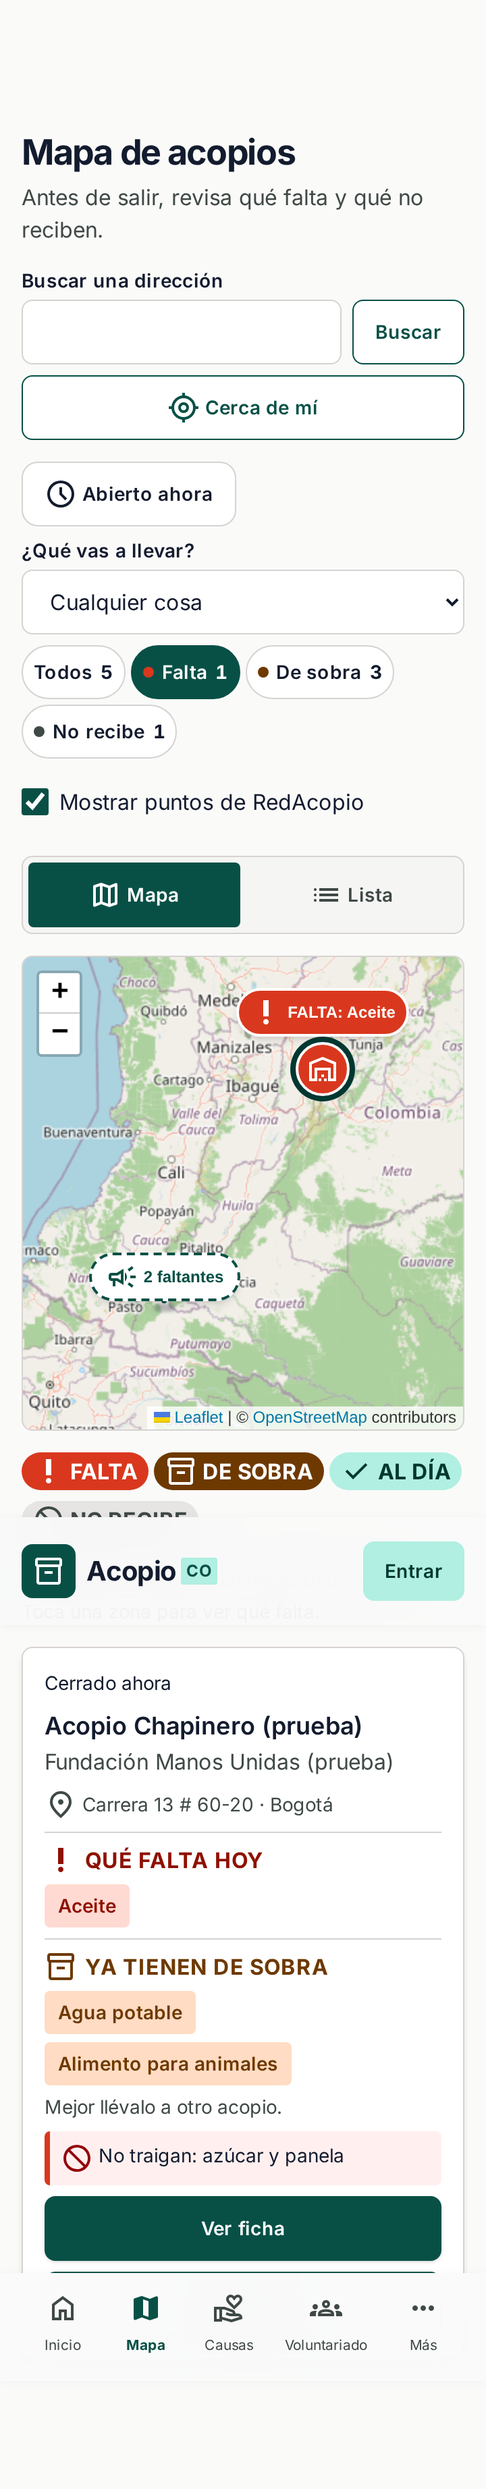
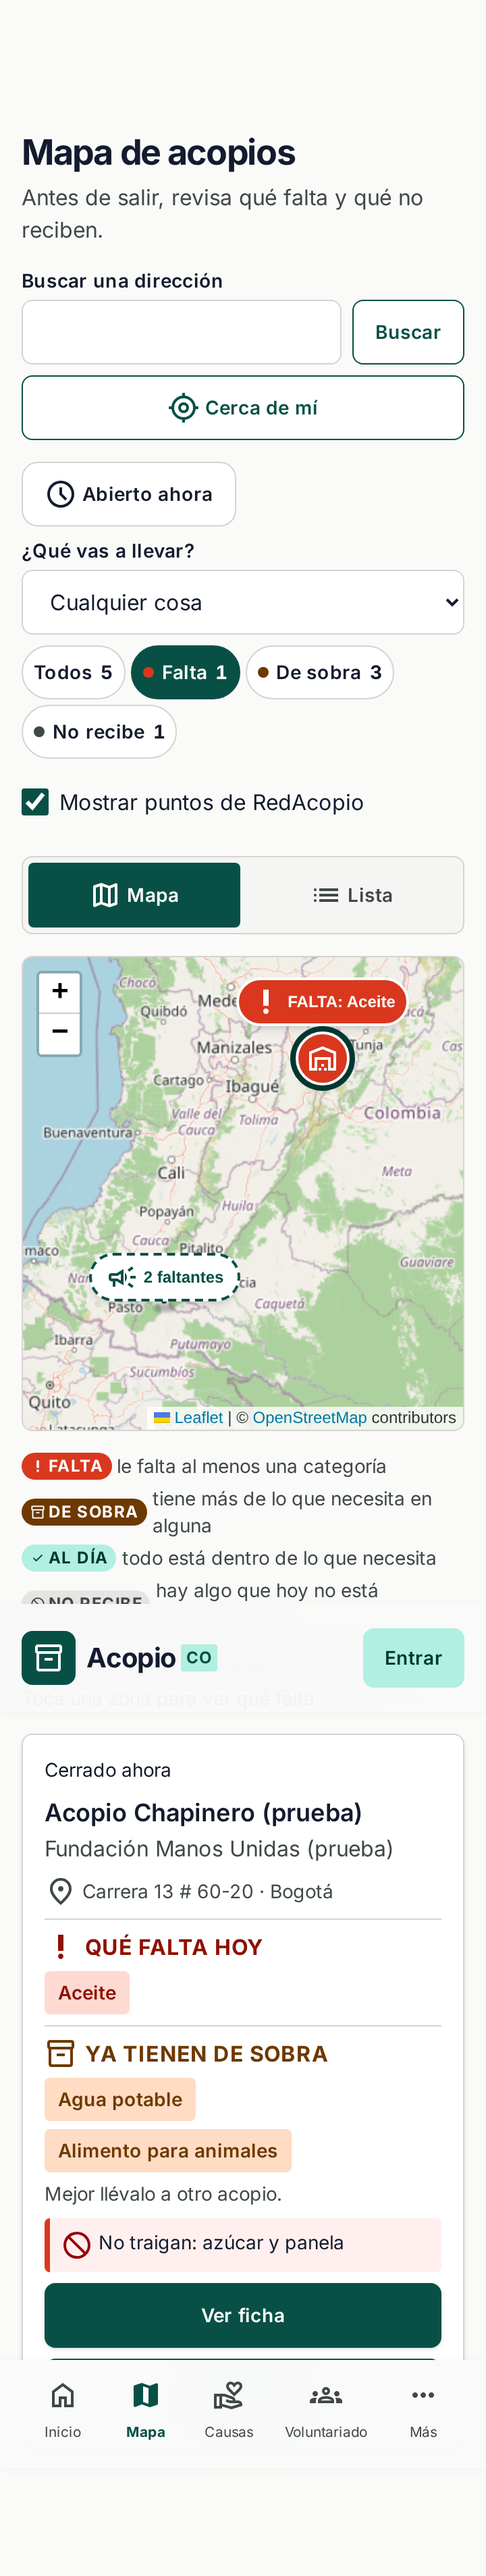
Mapa: leyenda mini por estado, etiqueta corta y ancla en la punta del círculo
La leyenda bajo el mapa lleva una fila por estado con la píldora mini y su frase, y
«Acopio sin etiqueta: no publica su inventario». La etiqueta del punto se acorta a 24
letras antes del +N o del estado, el ancho del ícono sale de la etiqueta (o del círculo
si no tiene) y altoPunto suma el gap y el alto fijo de la etiqueta (h-9), así la punta
del círculo cae sobre la coordenada.

Claude-Session: https://claude.ai/code/session_01YFcedtGcTXRBBGCybdUmT9

diff --git a/apps/web/src/portal/mapa/marcador.ts b/apps/web/src/portal/mapa/marcador.ts
@@ -42,16 +42,56 @@ export interface OpcionesPunto {
   apagado?: boolean;
 }
 
+/** Largo máximo de la etiqueta del punto; el title del marcador lleva el texto completo. */
+export const LARGO_ETIQUETA = 24;
+
+// Lo que va al final y no se corta: el estado de «ARROZ DE SOBRA» y el «+2» de las demás
+const COLA = /(?: (?:DE SOBRA|AL DÍA))?(?: \+\d+)?$/;
+
+/** Acorta la etiqueta a `max` letras: corta la categoría con «…» y deja el final (el estado
+ *  que va después de la categoría y el «+N»). */
+export function etiquetaCorta(texto: string, max: number) {
+  if (texto.length <= max) return texto;
+  const cola = COLA.exec(texto)?.[0] ?? '';
+  const cabe = Math.max(max - cola.length - 1, 1);
+  return `${texto
+    .slice(0, texto.length - cola.length)
+    .slice(0, cabe)
+    .trimEnd()}…${cola}`;
+}
+
+// Los números salen de las clases de htmlPunto. El círculo es size-8 (32 px) o size-10 (40 px)
+// si está elegido; la etiqueta es h-9 (36 px) y va separada del círculo por gap-1 (4 px).
+// El anillo (ring-4) es una sombra: no cambia el alto.
+const CIRCULO = { normal: 32, elegido: 40 };
+const ALTO_ETIQUETA = 36;
+const GAP = 4;
+
 /** Alto del punto en px, para que el ancla del marcador sea la base del círculo. */
 export const altoPunto = (elegido: boolean, conEtiqueta: boolean) =>
-  (elegido ? 40 : 32) + (conEtiqueta ? 32 : 0);
+  (elegido ? CIRCULO.elegido : CIRCULO.normal) + (conEtiqueta ? GAP + ALTO_ETIQUETA : 0);
 
-/** Un círculo de 32 px (40 px con anillo si está elegido) con una etiqueta encima. Va con
+// La etiqueta mide su borde (2 × 2), el px-2 (2 × 8), el ícono (24: la hoja de Material Symbols
+// fija 24 px sobre el text-[16px]), el gap-1 y unos 8 px por letra en la letra de 12 px de Leaflet
+const FIJO_ETIQUETA = 4 + 16 + 24 + 4;
+const POR_LETRA = 8;
+
+/** Ancho del ícono del marcador: el círculo con su anillo (40 px, 48 elegido) sin etiqueta, y lo
+ *  que mida la etiqueta con ella. Sin etiqueta no queda una franja invisible que tape a otros. */
+export function anchoPunto(elegido: boolean, texto: string | null) {
+  const circulo = elegido ? 48 : 40;
+  if (!texto) return circulo;
+  const letras = etiquetaCorta(texto, LARGO_ETIQUETA).length;
+  return Math.max(circulo, FIJO_ETIQUETA + letras * POR_LETRA);
+}
+
+/** Un círculo de 32 px (40 px con anillo si está elegido) con una etiqueta encima, de alto fijo
+ *  para que altoPunto coincida. Va con
  *  aria-hidden: el lector de pantalla anuncia el title del marcador. */
 export function htmlPunto(o: OpcionesPunto) {
   const etiqueta =
     o.etiqueta && !o.apagado
-      ? `<div class="flex items-center gap-1 whitespace-nowrap rounded-[999px] border-2 border-surface-container-lowest px-2 py-1 text-label-sm font-bold shadow-md ${o.etiqueta.clases}">${icono(o.etiqueta.icono)}${escapar(o.etiqueta.texto)}</div>`
+      ? `<div class="flex h-9 items-center gap-1 whitespace-nowrap rounded-[999px] border-2 border-surface-container-lowest px-2 text-label-sm font-bold shadow-md ${o.etiqueta.clases}">${icono(o.etiqueta.icono)}${escapar(etiquetaCorta(o.etiqueta.texto, LARGO_ETIQUETA))}</div>`
       : '';
   const tamano = o.elegido ? 'size-10' : 'size-8';
   return `<div aria-hidden="true" class="flex flex-col items-center gap-1${o.apagado ? ' opacity-45' : ''}">${etiqueta}<div class="flex ${tamano} items-center justify-center rounded-[999px] border-2 border-surface-container-lowest shadow-md ${o.circulo} ${anillo(o.elegido)}">${icono(o.icono)}</div></div>`;

diff --git a/apps/web/src/portal/mapa/marcador.test.ts b/apps/web/src/portal/mapa/marcador.test.ts
@@ -2,6 +2,9 @@ import { screen } from '@testing-library/react';
 
 import { acopioDePrueba, referenciadoDePrueba } from '../../pruebas/datos-red';
 import {
+  altoPunto,
+  anchoPunto,
+  etiquetaCorta,
   etiquetaMarcador,
   htmlGrupo,
   htmlMarcador,
@@ -122,4 +125,62 @@ describe('el punto del acopio activo con la etiqueta de su estado', () => {
       '&lt;b&gt;',
     );
   });
+});
+
+describe('etiquetaCorta', () => {
+  it('deja igual lo que cabe', () => {
+    expect(etiquetaCorta('FALTA: Arroz +2', 24)).toBe('FALTA: Arroz +2');
+    expect(etiquetaCorta('X'.repeat(24), 24)).toBe('X'.repeat(24));
+  });
+  it('acorta la categoría con «…» antes del +N', () => {
+    expect(etiquetaCorta('FALTA: Alimento para animales +2', 24)).toBe('FALTA: Alimento para… +2');
+    expect(etiquetaCorta('FALTA: Alimento para animales +2', 24)).toHaveLength(24);
+  });
+  it('sin +N acorta el final', () => {
+    expect(etiquetaCorta('NO RECIBE: Alimento para animales', 24)).toBe('NO RECIBE: Alimento par…');
+  });
+  it('con la categoría delante conserva el estado del final', () => {
+    expect(etiquetaCorta('ALIMENTO PARA ANIMALES DE SOBRA', 24)).toBe('ALIMENTO PARA… DE SOBRA');
+    expect(etiquetaCorta('ALIMENTO PARA ANIMALES AL DÍA', 24)).toBe('ALIMENTO PARA AN… AL DÍA');
+  });
+  it('no deja un espacio antes de «…»', () => {
+    expect(etiquetaCorta('FALTA: Agua potable embotellada', 21)).toBe('FALTA: Agua potable…');
+  });
+});
+
+it('el marcador dibuja la etiqueta corta; el title lleva la completa', () => {
+  const html = htmlMarcador(acopioDePrueba(), false, {
+    estado: 'falta',
+    texto: 'FALTA: Alimento para animales +2',
+  });
+  expect(html).toContain('FALTA: Alimento para… +2');
+  expect(html).not.toContain('animales');
+});
+
+// El alto sale de las clases de htmlPunto: size-8 o size-10, gap-1 y h-9 en la etiqueta
+it('altoPunto mide lo dibujado, con y sin etiqueta, elegido o no', () => {
+  expect(altoPunto(false, false)).toBe(32);
+  expect(altoPunto(true, false)).toBe(40);
+  expect(altoPunto(false, true)).toBe(32 + 4 + 36);
+  expect(altoPunto(true, true)).toBe(40 + 4 + 36);
+  const html = htmlPunto({
+    circulo: 'y',
+    icono: 'check',
+    etiqueta: { clases: 'x', icono: 'check', texto: 'AL DÍA' },
+    elegido: false,
+  });
+  expect(html).toContain('gap-1');
+  expect(html).toContain('h-9');
+  expect(html).toContain('size-8');
+});
+
+it('anchoPunto: el círculo sin etiqueta y lo que mida la etiqueta con ella', () => {
+  expect(anchoPunto(false, null)).toBe(40);
+  expect(anchoPunto(true, null)).toBe(48);
+  expect(anchoPunto(false, 'AL DÍA')).toBeGreaterThan(48);
+  // la etiqueta crece con el texto hasta 24 letras y no más
+  expect(anchoPunto(false, 'FALTA: Aceite')).toBeGreaterThan(anchoPunto(false, 'AL DÍA'));
+  expect(anchoPunto(false, 'FALTA: Alimento para animales +2')).toBe(
+    anchoPunto(false, 'X'.repeat(24)),
+  );
 });

diff --git a/apps/web/src/portal/mapa/Mapa.tsx b/apps/web/src/portal/mapa/Mapa.tsx
@@ -43,11 +43,11 @@ type Chip = 'todos' | Exclude<EstadoMapa, 'aldia'>;
 const CHIPS: readonly Chip[] = ['falta', 'sobra', 'norecibe'];
 const leerChip = (v: string | null): Chip => (CHIPS.includes(v as Chip) ? (v as Chip) : 'todos');
 
-const LEYENDA: EtiquetaMapa[] = [
-  { estado: 'falta', texto: 'FALTA' },
-  { estado: 'sobra', texto: 'DE SOBRA' },
-  { estado: 'aldia', texto: 'AL DÍA' },
-  { estado: 'norecibe', texto: 'NO RECIBE' },
+const LEYENDA: (EtiquetaMapa & { frase: string })[] = [
+  { estado: 'falta', texto: 'FALTA', frase: 'le falta al menos una categoría' },
+  { estado: 'sobra', texto: 'DE SOBRA', frase: 'tiene más de lo que necesita en alguna' },
+  { estado: 'aldia', texto: 'AL DÍA', frase: 'todo está dentro de lo que necesita' },
+  { estado: 'norecibe', texto: 'NO RECIBE', frase: 'hay algo que hoy no está recibiendo' },
 ];
 
 /** P5 Mapa de acopios (RF-RED-002). Los filtros viven en la URL, así «Volver al mapa»
@@ -294,10 +294,13 @@ export function Mapa() {
             />
           </div>
           {necesidades && (
-            <ul aria-label="Estados del inventario" className="flex flex-wrap gap-space-xs">
+            <ul aria-label="Estados del inventario" className="flex flex-col gap-space-xs">
               {LEYENDA.map((e) => (
-                <li key={e.estado}>
-                  <PildoraEstado etiqueta={e} />
+                <li
+                  key={e.estado}
+                  className="flex items-center gap-space-xs text-body-sm text-on-surface-variant"
+                >
+                  <PildoraEstado etiqueta={e} mini /> {e.frase}
                 </li>
               ))}
             </ul>
@@ -307,7 +310,7 @@ export function Mapa() {
               <p className="flex flex-wrap gap-x-space-md gap-y-space-xs text-body-sm text-on-surface-variant">
                 <span className="inline-flex items-center gap-space-xs">
                   <span className="size-4 rounded-full border-2 border-surface-container-lowest bg-primary-container shadow-sm" />
-                  {refsEnMapa > 0 ? 'Acopio: inventario al día' : 'Acopio'}
+                  {refsEnMapa > 0 ? 'Acopio sin etiqueta: no publica su inventario' : 'Acopio'}
                 </span>
                 {refsEnMapa > 0 && fuente && (
                   <span className="inline-flex items-center gap-space-xs">

diff --git a/apps/web/src/portal/mapa/Mapa.test.tsx b/apps/web/src/portal/mapa/Mapa.test.tsx
@@ -275,6 +275,33 @@ it('la vista de mapa carga el mapa y deja pasar a la lista', async () => {
   expect(await screen.findByRole('link', { name: /Acopio Chapinero/ })).toBeInTheDocument();
 });
 
+it('la leyenda del mapa explica cada estado en su fila, con la píldora mini', async () => {
+  responderSegun(RESPUESTAS);
+  pantalla('/mapa');
+  await screen.findByText('mapa de acopios');
+  const leyenda = await screen.findByRole('list', { name: 'Estados del inventario' });
+  const filas = within(leyenda).getAllByRole('listitem');
+  expect(filas.map((f) => f.textContent)).toEqual([
+    'priority_highFALTA le falta al menos una categoría',
+    'inventory_2DE SOBRA tiene más de lo que necesita en alguna',
+    'checkAL DÍA todo está dentro de lo que necesita',
+    'blockNO RECIBE hay algo que hoy no está recibiendo',
+  ]);
+  const pildora = within(filas[0]!).getByText('FALTA');
+  expect(pildora).toHaveClass('text-label-caps', 'px-1.5', 'bg-secondary-container');
+});
+
+it('sin necesidades la leyenda no muestra los estados', async () => {
+  const { 'GET /api/publico/necesidades': _, ...sinNecesidades } = RESPUESTAS;
+  responderSegun(sinNecesidades);
+  pantalla('/mapa');
+  await screen.findByText('mapa de acopios');
+  await waitFor(() =>
+    expect(peticiones().some((u) => u.includes('/api/publico/necesidades'))).toBe(true),
+  );
+  expect(screen.queryByRole('list', { name: 'Estados del inventario' })).not.toBeInTheDocument();
+});
+
 it('no tiene violaciones graves de accesibilidad', async () => {
   responderSegun(RESPUESTAS);
   const { container } = pantalla();
@@ -392,7 +419,7 @@ describe('puntos de RedAcopio (pieza E)', () => {
     pantalla('/mapa');
     expect(await screen.findByRole('button', { name: 'acopio r1' })).toBeInTheDocument();
     expect(screen.queryByRole('button', { name: 'acopio r2' })).not.toBeInTheDocument();
-    expect(screen.getByText('Acopio: inventario al día')).toBeInTheDocument();
+    expect(screen.getByText('Acopio sin etiqueta: no publica su inventario')).toBeInTheDocument();
     expect(screen.getByText('RedAcopio Bogotá: datos de su fuente')).toBeInTheDocument();
   });
 

diff --git a/apps/web/src/portal/mapa/TarjetaAcopio.tsx b/apps/web/src/portal/mapa/TarjetaAcopio.tsx
@@ -15,14 +15,23 @@ export function aperturaPublica(a: Pick<AcopioPublico, 'estado' | 'abiertoAhora'
 
 export const km = (d: number) => `${d.toLocaleString('es-CO', { maximumFractionDigits: 1 })} km`;
 
-/** La etiqueta del mapa como píldora, en el color y con el ícono de su estado. */
-export function PildoraEstado({ etiqueta }: { etiqueta: EtiquetaMapa }) {
+/** La etiqueta del mapa como píldora, en el color y con el ícono de su estado. La `mini` es la
+ *  de la leyenda: unos 20 px de alto, con el ícono de 12 px. */
+export function PildoraEstado({
+  etiqueta,
+  mini = false,
+}: {
+  etiqueta: EtiquetaMapa;
+  mini?: boolean;
+}) {
   const e = ESTILO_ESTADO[etiqueta.estado];
+  // La hoja de Material Symbols fija 24 px y le gana a text-[12px]: por eso va con «!»
+  const tamano = mini
+    ? 'shrink-0 gap-0.5 px-1.5 py-0.5 text-label-caps'
+    : 'gap-1 px-2 py-0.5 text-label-sm font-bold';
   return (
-    <span
-      className={`inline-flex w-fit items-center gap-1 rounded-[999px] px-2 py-0.5 text-label-sm font-bold ${e.clases}`}
-    >
-      <Icono nombre={e.icono} className="text-[14px]" />
+    <span className={`inline-flex w-fit items-center rounded-[999px] ${tamano} ${e.clases}`}>
+      <Icono nombre={e.icono} className={mini ? 'text-[12px]!' : 'text-[14px]'} />
       {etiqueta.texto}
     </span>
   );

diff --git a/apps/web/src/portal/mapa/MapaAcopios.tsx b/apps/web/src/portal/mapa/MapaAcopios.tsx
@@ -10,6 +10,7 @@ import type { EtiquetaMapa } from './necesidad';
 import { claveEncuadre, leerClave } from './encuadre';
 import {
   altoPunto,
+  anchoPunto,
   etiquetaMarcador,
   htmlGrupo,
   htmlMarcador,
@@ -18,7 +19,8 @@ import {
   type TipoGrupo,
 } from './marcador';
 
-// La píldora mide hasta unos 140 px y el punto con etiqueta unos 200; el ancla es la base, sobre el punto
+// La píldora mide hasta unos 140 px; el punto, lo que mida su etiqueta o su círculo (anchoPunto).
+// El ancla es la base, sobre el punto
 const marcador = (
   a: AcopioPublico,
   elegido: boolean,
@@ -26,8 +28,9 @@ const marcador = (
   apagado: boolean,
 ) => {
   const punto = a.tipo === 'OPERADO' && a.estado !== 'PAUSADO';
-  const alto = punto ? altoPunto(elegido, !!etiqueta && !apagado) : 36;
-  const ancho = punto ? 200 : 140;
+  const texto = etiqueta && !apagado ? etiqueta.texto : null;
+  const alto = punto ? altoPunto(elegido, !!texto) : 36;
+  const ancho = punto ? anchoPunto(elegido, texto) : 140;
   return L.divIcon({
     className: '',
     html: htmlMarcador(a, elegido, etiqueta, apagado),
